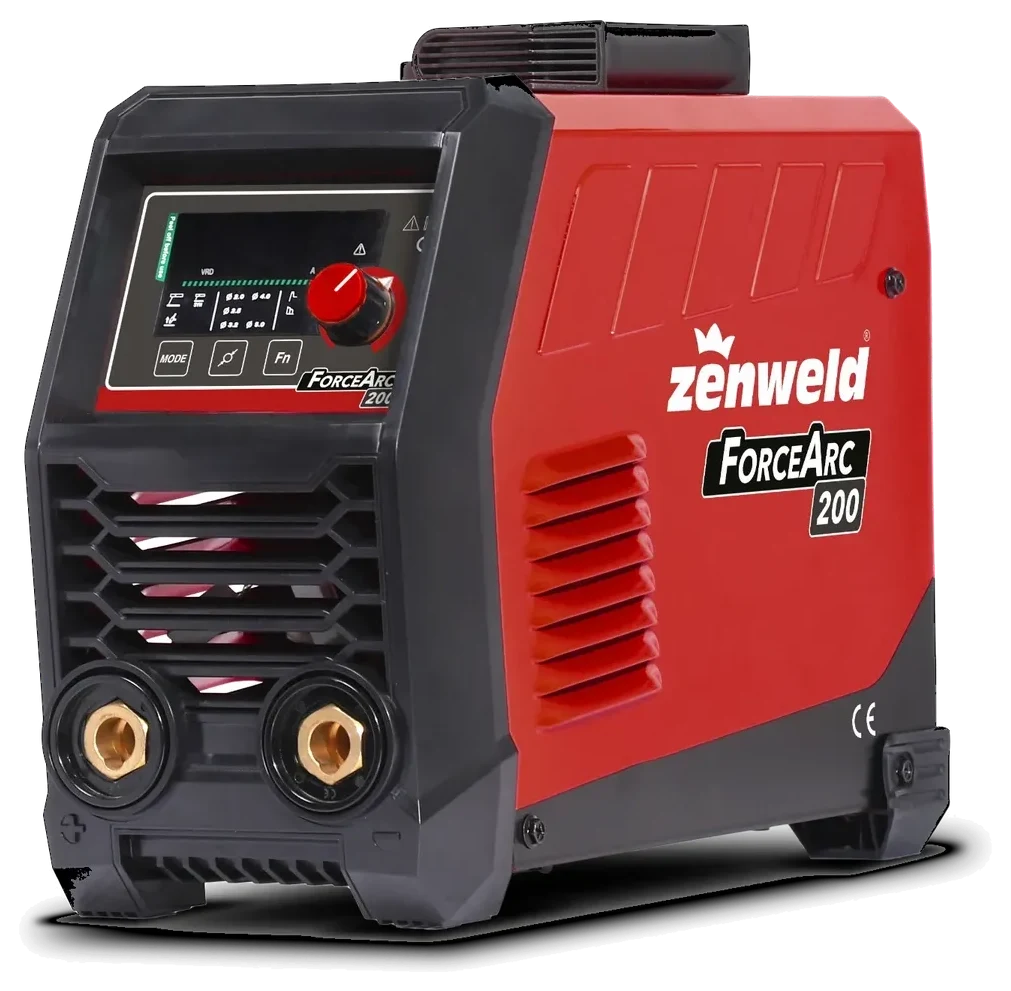
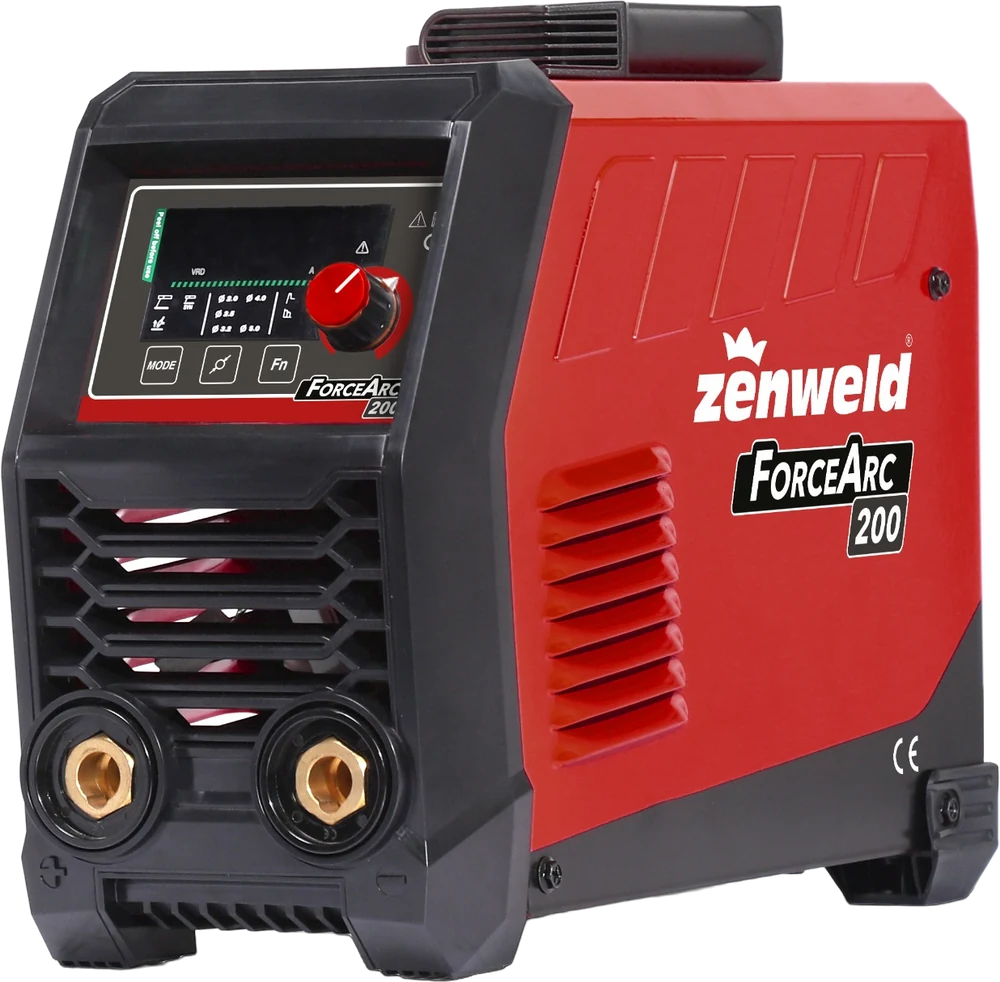
Force sayfası: kaynak ustası ve temiz makine görselleri; anasayfa Force tanıtımında tek düğme
Sahibinin isteğiyle:
- Force sayfasının açılışına Force fuar davetiyesindeki karikatür kaynak
  ustası eklendi: arkada FORCE yazısı, onun altından yükselen usta, önde
  dört makine. Ustanın torcunun ucunda ark titrer; kaydırınca makinelerden
  yavaş kayar. Hareket azaltma tercihinde sabit durur. Görsel afişten
  arka plan silme modeliyle kesildi (public/images/force/kaynak-ustasi.webp).
- Dört makinenin görseli sahibinin ilk gönderdiği fotoğraflardan aynı
  modelle yeniden kesildi; eski görsellerin kenarında kalan gri zemin
  izi yok.
- Anasayfa tanıtım alanının Force sayfasında Teklif Al düğmesi kaldırıldı;
  yalnızca Force Serisini İncele kaldı (örnek veri; DB_VERSION 84).

Belgeler (WEBSITE-KULLANIM, KABUL, YAPILACAKLAR) ve tarayıcı testi
(force.spec: ustanın görseli yüklenir, Force tanıtımında tek düğme) aynı
commit'te güncellendi.

Claude-Session: https://claude.ai/code/session_01A85LCcgzYbBzSA5jNmmQJM

diff --git a/apps/zenweld-web/src/components/force/ForcePage.tsx b/apps/zenweld-web/src/components/force/ForcePage.tsx
@@ -49,6 +49,9 @@ export function ForcePage() {
 
 /** Acilistaki dizilis: soldan saga, genislik (%), derinlik ve kaydirinca acilma. */
 // Telefonda makineler daha buyuk; kenardakiler ekranin disina tasar.
+/** Afisteki kaynak ustasi (zemini kaldirilmis; alt kismi makinelerin arkasinda kalir). */
+const WELDER = "/images/force/kaynak-ustasi.webp";
+
 const HERO_LINEUP: { key: ForceMachineKey; width: string; z: number; spread: string; delay: number; lift: string }[] = [
   { key: "arc", width: "w-[32%] md:w-[24%]", z: 10, spread: "-90px", delay: 350, lift: "mb-[2%]" },
   { key: "mig", width: "w-[44%] md:w-[33%]", z: 30, spread: "-30px", delay: 150, lift: "" },
@@ -67,7 +70,7 @@ function Hero() {
       <div aria-hidden="true" className="zw-force-hero-bg absolute inset-0 -z-10" />
       <Sparks />
 
-      <div className="zw-container relative pt-8 md:pt-12">
+      <div className="zw-container relative pt-8">
         <p className="zw-force-in flex items-center gap-3 text-[11px] font-bold uppercase tracking-[0.32em] text-zw-red-500 md:text-xs">
           <span className="h-px w-10 bg-zw-red-500" />
           {f.eyebrow}
@@ -81,8 +84,18 @@ function Hero() {
         </span>
       </h1>
 
-      {/* Dort makine: kelimenin alt kismina biner; kaydirinca yukari kayip acilir. */}
-      <div className="zw-force-lineup relative z-10 mx-auto -mt-[12vw] flex w-full max-w-[1100px] items-end justify-center px-2 md:-mt-[8vw] 2xl:max-w-[1240px]">
+      {/* Katmanlar: arkada FORCE yazisi, onun altindan yukselen kaynak ustasi, onde dort
+          makine. Usta yazinin alt kenarina, makineler ustanin govdesine biner. */}
+      <div aria-hidden="true" className="zw-force-welder pointer-events-none relative z-10 mx-auto -mt-[5vw] w-[74%] max-w-[580px] md:-mt-[3.4vw] md:w-[35%]">
+        <div className="zw-force-welder-in relative">
+          <ProductImage src={WELDER} alt="" label="Zenweld kaynak ustası" priority className="w-full" />
+          {/* Torc ucundaki ark */}
+          <span className="zw-force-torch absolute left-[85.5%] top-[85%]" />
+        </div>
+      </div>
+
+      {/* Dort makine: ustanin govdesinin alt kismina biner; kaydirinca yukari kayip acilir. */}
+      <div className="zw-force-lineup relative z-20 mx-auto -mt-[13vw] flex w-full max-w-[1100px] items-end justify-center px-2 md:-mt-[4.4vw] md:max-w-[780px] 2xl:max-w-[920px]">
         {/* Makinelerin bastigi isikli zemin cizgisi */}
         <div aria-hidden="true" className="zw-force-floor absolute inset-x-[-30%] bottom-[3%] h-px" />
         {HERO_LINEUP.map(({ key, width, z, spread, delay, lift }) => {
@@ -101,9 +114,9 @@ function Hero() {
         })}
       </div>
 
-      <div className="zw-container relative z-20 mt-auto flex flex-col gap-6 pb-10 pt-8 md:flex-row md:items-end md:justify-between md:pb-12">
+      <div className="zw-container relative z-20 mt-auto flex flex-col gap-6 pb-10 pt-8 md:flex-row md:items-end md:justify-between md:pb-9 md:pt-5">
         <div className="zw-force-in [animation-delay:500ms]">
-          <p className="font-display text-[40px] font-bold uppercase leading-[0.92] md:text-6xl">
+          <p className="font-display text-[40px] font-bold uppercase leading-[0.92] md:text-[54px]">
             <span className="block">{f.heroLineA}</span>
             <span className="block text-zw-red-500">{f.heroLineB}</span>
           </p>

diff --git a/tests/e2e/force.spec.ts b/tests/e2e/force.spec.ts
@@ -60,6 +60,10 @@ test("/force: başlık, dört makine bölümü ürün sayfalarına bağlanır", 
   await expect(page.getByRole("heading", { level: 1, name: "Zenweld Force Serisi", exact: true })).toBeVisible();
   await expect(page.getByRole("link", { name: /Makineleri Keşfet/ })).toHaveAttribute("href", "#makineler");
   await expect(page.getByRole("link", { name: "Teknik Karşılaştırma" })).toHaveAttribute("href", "#karsilastirma");
+  // Acilis: FORCE yazisinin altindan yukselen kaynak ustasi (dekoratif) yuklenir.
+  const welder = page.locator('img[src$="/images/force/kaynak-ustasi.webp"]');
+  await expect(welder).toBeVisible();
+  await expect.poll(() => welder.evaluate((img: HTMLImageElement) => img.naturalWidth)).toBeGreaterThan(0);
 
   for (const [name, slogan, href] of MACHINES) {
     const chapter = page.locator("section").filter({ has: page.getByRole("heading", { level: 2, name }) });
@@ -106,13 +110,16 @@ test("/force teknik tablo: Force serisinin bütün modelleri yan yana; fiyat, Se
   expect(problems).toEqual([]);
 });
 
-test("anasayfa: Force Serisi şeridinin Tümünü Gör'ü ve tanıtım alanındaki düğme /force'a gider", async ({ page, problems }) => {
+test("anasayfa: Force Serisi şeridinin Tümünü Gör'ü ve tanıtım alanındaki tek düğme /force'a gider", async ({ page, problems }) => {
   await page.goto("/");
   const strip = page.locator("section").filter({ has: page.getByRole("heading", { name: "Force Serisi", exact: true }) });
   await expect(strip.getByRole("link", { name: /Tümünü Gör/ })).toHaveAttribute("href", "/force");
   const hero = page.locator('section[aria-roledescription="carousel"]');
   await hero.getByRole("button", { name: "Force Serisi" }).click();
-  await hero.getByRole("link", { name: /Force Serisini İncele/ }).click();
+  const cta = hero.getByRole("link", { name: /Force Serisini İncele/ });
+  // Force sayfasinda Teklif Al dugmesi yok (yalnizca Force Serisini Incele).
+  await expect(cta.locator("..").getByRole("link")).toHaveCount(1);
+  await cta.click();
   await expect(page).toHaveURL(/\/force$/);
   expect(problems).toEqual([]);
 });

diff --git a/apps/zenweld-web/src/app/globals.css b/apps/zenweld-web/src/app/globals.css
@@ -374,9 +374,28 @@
   color: transparent;
 }
 @media (min-width: 768px) {
-  .zw-force-word { font-size: clamp(110px, 24vw, 400px); }
+  .zw-force-word { font-size: clamp(110px, 15.5vw, 290px); }
 }
 .zw-force-lineup { transform: translateY(calc(var(--exit) * -110px)); }
+/* Kaynak ustasi makinelerden yavas kayar (derinlik); arkasinda kirmizi isik. */
+.zw-force-welder { transform: translateY(calc(var(--exit) * -40px)); }
+.zw-force-welder::before {
+  content: "";
+  position: absolute;
+  inset: 0 0 -10% 0;
+  z-index: -1;
+  background: radial-gradient(closest-side, rgb(200 30 40 / 0.4), transparent);
+  filter: blur(12px);
+}
+/* Torc ucundaki ark: beyaz-mavi cekirdek, turuncu hale; titrer. */
+.zw-force-torch {
+  width: 9%;
+  aspect-ratio: 1;
+  translate: -50% -50%;
+  border-radius: 9999px;
+  background: radial-gradient(closest-side, #fff 0%, rgb(170 210 255 / 0.95) 18%, rgb(255 150 60 / 0.55) 45%, transparent 75%);
+  mix-blend-mode: screen;
+}
 .zw-force-unit { transform: translateX(calc(var(--exit) * var(--spread, 0px))); }
 
 .zw-force-card { background: linear-gradient(160deg, #1a1d21 0%, #111316 100%); }
@@ -463,6 +482,8 @@
   .zw-force-rise { animation: zw-force-rise 1.3s cubic-bezier(0.22, 1, 0.36, 1) var(--d, 0ms) both; }
   .zw-force-in { animation: zw-rise-in 900ms cubic-bezier(0.22, 1, 0.36, 1) both; }
   .zw-force-floor { animation: zw-force-arc 3.2s steps(1, end) infinite; }
+  .zw-force-welder-in { animation: zw-force-rise 1.4s cubic-bezier(0.22, 1, 0.36, 1) 500ms both; }
+  .zw-force-torch { animation: zw-force-arc 1.1s steps(1, end) infinite; }
   .zw-force-marquee { animation: zw-force-marquee 32s linear infinite; }
   .zw-force-ticker:hover .zw-force-marquee { animation-play-state: paused; }
   .zw-force-scroll-line { animation: zw-force-scroll 2.2s ease-in-out infinite; }

diff --git a/packages/data/src/index.ts b/packages/data/src/index.ts
@@ -56,7 +56,7 @@ import { createSampleWarehouseStock } from "./seed/warehouse.seed";
 import { createSampleCoupons } from "./seed/coupons.seed";
 
 /** localStorage'a yuklenecek baslangic veritabani. */
-export const DB_VERSION = 83;
+export const DB_VERSION = 84;
 
 /**
  * now: ornek hareketlerin (siparis, stok ...) tarihlendigi an. Tarayicida

diff --git a/packages/data/src/seed/settings.seed.ts b/packages/data/src/seed/settings.seed.ts
@@ -92,7 +92,6 @@ export const defaultSettings: SiteSettings = {
         image: "/images/home/force-mig-200.webp",
         bigWord: "FORCE",
         primary: { label: "Force Serisini İncele", href: "/force" },
-        secondary: { label: "Teklif Al", href: "/teklif-al" },
       },
       {
         id: "jasic-lazer",

diff --git a/docs/WEBSITE-KULLANIM.md b/docs/WEBSITE-KULLANIM.md
@@ -222,8 +222,8 @@ Yukarıdan aşağıya bölümler (KARARLAR K-47):
      (`/ekipmanlar`) ve **Zenweld'i Tanıyın** (`/hakkimizda`). Metin
      örnektir; sahibi panelden girecek.
    - **Force Serisi** (ürün · koyu atölye): ForceMIG 200 fotoğrafı, arka
-     planda "FORCE"; **Force Serisini İncele** ([Force Serisi
-     sayfası](#force-serisi-force), `/force`) ve **Teklif Al**.
+     planda "FORCE"; tek düğme: **Force Serisini İncele** ([Force Serisi
+     sayfası](#force-serisi-force), `/force`).
    - **Jasic Lazer** (ürün · teknik çizim): Jasic lazer kaynak makinesi
      fotoğrafı, arka planda "LAZER", etiketler Lazer Kaynak · Lazer
      Temizleme · Lazer Markalama; **Lazer Makinelerini İncele**
@@ -385,12 +385,13 @@ zeminlidir; bölümler sayfa kaydırıldıkça kayarak, büyüyerek ya da soldan
 açılarak belirir. Hareket azaltma tercihi olan ziyaretçide hareket olmaz,
 her şey hemen görünür.
 
-1. **Açılış:** "Zenweld Force Serisi", dev **FORCE** yazısı, önünde dört
-   makine (ForceArc 200, ForceMIG 200, ForceTIG 200, ForceCut 45; zemini
-   kaldırılmış fotoğraflar), "Kompakt gövde. Tam güç." ve kısa metin.
-   **Makineleri Keşfet** dört makinenin kartlarına, **Teknik
-   Karşılaştırma** tabloya iner. Kaydırınca yazı aşağı, makineler yukarı
-   kayıp iki yana açılır.
+1. **Açılış:** "Zenweld Force Serisi"; arkada dev **FORCE** yazısı, onun
+   altından yükselen kaynak ustası (Force fuar davetiyesindeki karikatür;
+   torcunun ucunda ark titrer), önde dört makine (ForceArc 200, ForceMIG
+   200, ForceTIG 200, ForceCut 45; zemini kaldırılmış fotoğraflar). Altında
+   "Kompakt gövde. Tam güç." ve kısa metin. **Makineleri Keşfet** dört
+   makinenin kartlarına, **Teknik Karşılaştırma** tabloya iner. Kaydırınca
+   yazı aşağı, makineler ve usta yukarı kayar, makineler iki yana açılır.
 2. **Kayan şerit:** MIG/MAG, Pulse TIG, MMA, Plazma Kesim, Sinerjik Kontrol,
    230 V, Dijital Panel, Yetkili Servis (fare üzerindeyken durur).
 3. **Dört yöntem. Tek seri.:** Dört makinenin kartı (yöntem, ad, slogan);

diff --git a/docs/YAPILACAKLAR.md b/docs/YAPILACAKLAR.md
@@ -1203,8 +1203,9 @@ Force sayfası (`/force`, KARARLAR K-114) bugün çalışıyor; sonra yapılacak
       "Force Sayfası" ekranından değişsin (Anasayfa Tanıtım gibi). [Panel]
 - [ ] **Fotoğraf ve videolar:** Sahibi makinelerin profesyonel fotoğraf ve
       videolarını gönderecek; makine bölümlerine galeri ve video eklenecek.
-      Bugünkü dört görsel sahibinin fotoğraflarından zemini kaldırılarak
-      hazırlandı (`public/images/force/`). [Karar]
+      Bugünkü dört makine görseli sahibinin fotoğraflarından zemini
+      kaldırılarak hazırlandı; açılıştaki kaynak ustası Force fuar
+      davetiyesindeki karikatürden kesildi (`public/images/force/`). [Karar]
 - [ ] **Teknik değerler:** Makine bölümlerindeki rakamlar ürünlerin bugünkü
       teknik özelliklerinden yazıldı; gerçek değerler gelince yazılar da
       güncellenir. Tabloda ForceArc 400 CEL'in teknik özellikleri yok

diff --git a/docs/KABUL-KONTROL-LISTESI.md b/docs/KABUL-KONTROL-LISTESI.md
@@ -158,7 +158,9 @@ ya da canlıya çıkmadan önce baştan sona uygulanır.
 - [ ] Üst menü: FORCE · Ekipmanlar · Güvenlik · Aksesuarlar · Dolgu
       Metalleri · Destek ve Garanti · Keşfet. FORCE menü açmaz, `/force`'u
       açar (telefon menüsünde de en üstte; `tests/e2e/force.spec.ts`).
-- [ ] `/force`: açılışta dev FORCE yazısı ve dört makine; Makineleri Keşfet
+- [ ] `/force`: açılışta dev FORCE yazısı, altından yükselen kaynak ustası
+      ve önünde dört makine; yazı okunur, ustanın eldivenleri ve torcu
+      makinelerin üstünde görünür; Makineleri Keşfet
       kartlara, Teknik Karşılaştırma tabloya iner. Dört makine bölümünde
       slogan, açıklama, rakamlar, fiyat, Sepete Ekle, kalp ve Ürünü İncele
       (ürün sayfası) vardır. Hareket azaltma tercihinde her şey sabit ve
